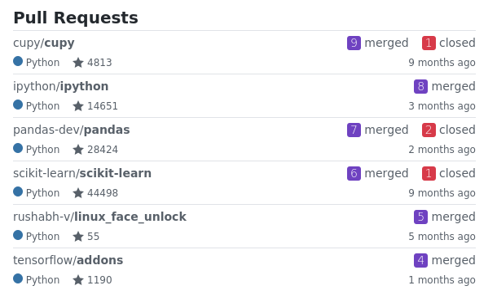
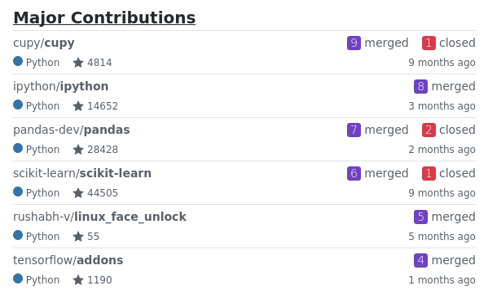
Update resources

diff --git a/contributions.html b/contributions.html
@@ -109,7 +109,7 @@ fieldset{padding:0;margin:0;border:0}label{font-weight:600}.form-control,.form-s
                         <path fill-rule="evenodd"
                             d="M14 6l-4.9-.64L7 1 4.9 5.36 0 6l3.6 3.26L2.67 14 7 11.67 11.33 14l-.93-4.74L14 6z">
                         </path>
-                    </svg>&nbsp;4813</div>
+                    </svg>&nbsp;4814</div>
             </div>
             <div class="f6 mt-1">9 months ago</div>
         </div>
@@ -135,7 +135,7 @@ fieldset{padding:0;margin:0;border:0}label{font-weight:600}.form-control,.form-s
                         <path fill-rule="evenodd"
                             d="M14 6l-4.9-.64L7 1 4.9 5.36 0 6l3.6 3.26L2.67 14 7 11.67 11.33 14l-.93-4.74L14 6z">
                         </path>
-                    </svg>&nbsp;14651</div>
+                    </svg>&nbsp;14652</div>
             </div>
             <div class="f6 mt-1">3 months ago</div>
         </div>
@@ -164,7 +164,7 @@ fieldset{padding:0;margin:0;border:0}label{font-weight:600}.form-control,.form-s
                         <path fill-rule="evenodd"
                             d="M14 6l-4.9-.64L7 1 4.9 5.36 0 6l3.6 3.26L2.67 14 7 11.67 11.33 14l-.93-4.74L14 6z">
                         </path>
-                    </svg>&nbsp;28424</div>
+                    </svg>&nbsp;28428</div>
             </div>
             <div class="f6 mt-1">2 months ago</div>
         </div>
@@ -193,7 +193,7 @@ fieldset{padding:0;margin:0;border:0}label{font-weight:600}.form-control,.form-s
                         <path fill-rule="evenodd"
                             d="M14 6l-4.9-.64L7 1 4.9 5.36 0 6l3.6 3.26L2.67 14 7 11.67 11.33 14l-.93-4.74L14 6z">
                         </path>
-                    </svg>&nbsp;44498</div>
+                    </svg>&nbsp;44505</div>
             </div>
             <div class="f6 mt-1">9 months ago</div>
         </div>
@@ -278,7 +278,7 @@ fieldset{padding:0;margin:0;border:0}label{font-weight:600}.form-control,.form-s
                         <path fill-rule="evenodd"
                             d="M14 6l-4.9-.64L7 1 4.9 5.36 0 6l3.6 3.26L2.67 14 7 11.67 11.33 14l-.93-4.74L14 6z">
                         </path>
-                    </svg>&nbsp;153098</div>
+                    </svg>&nbsp;153112</div>
             </div>
             <div class="f6 mt-1">3 days ago</div>
         </div>
@@ -334,7 +334,7 @@ fieldset{padding:0;margin:0;border:0}label{font-weight:600}.form-control,.form-s
                         <path fill-rule="evenodd"
                             d="M14 6l-4.9-.64L7 1 4.9 5.36 0 6l3.6 3.26L2.67 14 7 11.67 11.33 14l-.93-4.74L14 6z">
                         </path>
-                    </svg>&nbsp;412</div>
+                    </svg>&nbsp;413</div>
             </div>
             <div class="f6 mt-1">1 months ago</div>
         </div>
@@ -389,7 +389,7 @@ fieldset{padding:0;margin:0;border:0}label{font-weight:600}.form-control,.form-s
                         <path fill-rule="evenodd"
                             d="M14 6l-4.9-.64L7 1 4.9 5.36 0 6l3.6 3.26L2.67 14 7 11.67 11.33 14l-.93-4.74L14 6z">
                         </path>
-                    </svg>&nbsp;20403</div>
+                    </svg>&nbsp;20406</div>
             </div>
             <div class="f6 mt-1">4 months ago</div>
         </div>
@@ -445,7 +445,7 @@ fieldset{padding:0;margin:0;border:0}label{font-weight:600}.form-control,.form-s
                         <path fill-rule="evenodd"
                             d="M14 6l-4.9-.64L7 1 4.9 5.36 0 6l3.6 3.26L2.67 14 7 11.67 11.33 14l-.93-4.74L14 6z">
                         </path>
-                    </svg>&nbsp;5554</div>
+                    </svg>&nbsp;5556</div>
             </div>
             <div class="f6 mt-1">1 years ago</div>
         </div>
@@ -578,7 +578,7 @@ fieldset{padding:0;margin:0;border:0}label{font-weight:600}.form-control,.form-s
                         <path fill-rule="evenodd"
                             d="M14 6l-4.9-.64L7 1 4.9 5.36 0 6l3.6 3.26L2.67 14 7 11.67 11.33 14l-.93-4.74L14 6z">
                         </path>
-                    </svg>&nbsp;2660</div>
+                    </svg>&nbsp;2662</div>
             </div>
             <div class="f6 mt-1">1 months ago</div>
         </div>
@@ -630,7 +630,7 @@ fieldset{padding:0;margin:0;border:0}label{font-weight:600}.form-control,.form-s
                         <path fill-rule="evenodd"
                             d="M14 6l-4.9-.64L7 1 4.9 5.36 0 6l3.6 3.26L2.67 14 7 11.67 11.33 14l-.93-4.74L14 6z">
                         </path>
-                    </svg>&nbsp;15648</div>
+                    </svg>&nbsp;15663</div>
             </div>
             <div class="f6 mt-1">6 months ago</div>
         </div>
@@ -659,7 +659,7 @@ fieldset{padding:0;margin:0;border:0}label{font-weight:600}.form-control,.form-s
                         <path fill-rule="evenodd"
                             d="M14 6l-4.9-.64L7 1 4.9 5.36 0 6l3.6 3.26L2.67 14 7 11.67 11.33 14l-.93-4.74L14 6z">
                         </path>
-                    </svg>&nbsp;4301</div>
+                    </svg>&nbsp;4303</div>
             </div>
             <div class="f6 mt-1">10 months ago</div>
         </div>
@@ -685,7 +685,7 @@ fieldset{padding:0;margin:0;border:0}label{font-weight:600}.form-control,.form-s
                         <path fill-rule="evenodd"
                             d="M14 6l-4.9-.64L7 1 4.9 5.36 0 6l3.6 3.26L2.67 14 7 11.67 11.33 14l-.93-4.74L14 6z">
                         </path>
-                    </svg>&nbsp;68588</div>
+                    </svg>&nbsp;68589</div>
             </div>
             <div class="f6 mt-1">9 months ago</div>
         </div>
@@ -711,7 +711,7 @@ fieldset{padding:0;margin:0;border:0}label{font-weight:600}.form-control,.form-s
                         <path fill-rule="evenodd"
                             d="M14 6l-4.9-.64L7 1 4.9 5.36 0 6l3.6 3.26L2.67 14 7 11.67 11.33 14l-.93-4.74L14 6z">
                         </path>
-                    </svg>&nbsp;8878</div>
+                    </svg>&nbsp;8884</div>
             </div>
             <div class="f6 mt-1">1 years ago</div>
         </div>
@@ -820,7 +820,7 @@ fieldset{padding:0;margin:0;border:0}label{font-weight:600}.form-control,.form-s
                         </path>
                     </svg>&nbsp;28</div>
             </div>
-            <div class="f6 mt-1">24 days ago</div>
+            <div class="f6 mt-1">25 days ago</div>
         </div>
     </div>
         <div class="border-top py-1">
@@ -847,7 +847,7 @@ fieldset{padding:0;margin:0;border:0}label{font-weight:600}.form-control,.form-s
                         <path fill-rule="evenodd"
                             d="M14 6l-4.9-.64L7 1 4.9 5.36 0 6l3.6 3.26L2.67 14 7 11.67 11.33 14l-.93-4.74L14 6z">
                         </path>
-                    </svg>&nbsp;4813</div>
+                    </svg>&nbsp;4814</div>
             </div>
             <div class="f6 mt-1">3 months ago</div>
         </div>
@@ -873,7 +873,7 @@ fieldset{padding:0;margin:0;border:0}label{font-weight:600}.form-control,.form-s
                         <path fill-rule="evenodd"
                             d="M14 6l-4.9-.64L7 1 4.9 5.36 0 6l3.6 3.26L2.67 14 7 11.67 11.33 14l-.93-4.74L14 6z">
                         </path>
-                    </svg>&nbsp;38481</div>
+                    </svg>&nbsp;38487</div>
             </div>
             <div class="f6 mt-1">7 months ago</div>
         </div>
@@ -899,7 +899,7 @@ fieldset{padding:0;margin:0;border:0}label{font-weight:600}.form-control,.form-s
                         <path fill-rule="evenodd"
                             d="M14 6l-4.9-.64L7 1 4.9 5.36 0 6l3.6 3.26L2.67 14 7 11.67 11.33 14l-.93-4.74L14 6z">
                         </path>
-                    </svg>&nbsp;7997</div>
+                    </svg>&nbsp;7998</div>
             </div>
             <div class="f6 mt-1">8 months ago</div>
         </div>
@@ -924,7 +924,7 @@ fieldset{padding:0;margin:0;border:0}label{font-weight:600}.form-control,.form-s
                         <path fill-rule="evenodd"
                             d="M14 6l-4.9-.64L7 1 4.9 5.36 0 6l3.6 3.26L2.67 14 7 11.67 11.33 14l-.93-4.74L14 6z">
                         </path>
-                    </svg>&nbsp;2714</div>
+                    </svg>&nbsp;2713</div>
             </div>
             <div class="f6 mt-1">10 months ago</div>
         </div>
@@ -949,7 +949,7 @@ fieldset{padding:0;margin:0;border:0}label{font-weight:600}.form-control,.form-s
                         <path fill-rule="evenodd"
                             d="M14 6l-4.9-.64L7 1 4.9 5.36 0 6l3.6 3.26L2.67 14 7 11.67 11.33 14l-.93-4.74L14 6z">
                         </path>
-                    </svg>&nbsp;16205</div>
+                    </svg>&nbsp;16212</div>
             </div>
             <div class="f6 mt-1">10 months ago</div>
         </div>
@@ -974,7 +974,7 @@ fieldset{padding:0;margin:0;border:0}label{font-weight:600}.form-control,.form-s
                         <path fill-rule="evenodd"
                             d="M14 6l-4.9-.64L7 1 4.9 5.36 0 6l3.6 3.26L2.67 14 7 11.67 11.33 14l-.93-4.74L14 6z">
                         </path>
-                    </svg>&nbsp;153098</div>
+                    </svg>&nbsp;153112</div>
             </div>
             <div class="f6 mt-1">10 months ago</div>
         </div>
@@ -999,9 +999,9 @@ fieldset{padding:0;margin:0;border:0}label{font-weight:600}.form-control,.form-s
                         <path fill-rule="evenodd"
                             d="M14 6l-4.9-.64L7 1 4.9 5.36 0 6l3.6 3.26L2.67 14 7 11.67 11.33 14l-.93-4.74L14 6z">
                         </path>
-                    </svg>&nbsp;28424</div>
+                    </svg>&nbsp;28428</div>
             </div>
-            <div class="f6 mt-1">11 months ago</div>
+            <div class="f6 mt-1">12 months ago</div>
         </div>
     </div>
         <div class="border-top py-1">
@@ -1024,7 +1024,7 @@ fieldset{padding:0;margin:0;border:0}label{font-weight:600}.form-control,.form-s
                         <path fill-rule="evenodd"
                             d="M14 6l-4.9-.64L7 1 4.9 5.36 0 6l3.6 3.26L2.67 14 7 11.67 11.33 14l-.93-4.74L14 6z">
                         </path>
-                    </svg>&nbsp;20403</div>
+                    </svg>&nbsp;20406</div>
             </div>
             <div class="f6 mt-1">1 years ago</div>
         </div>
